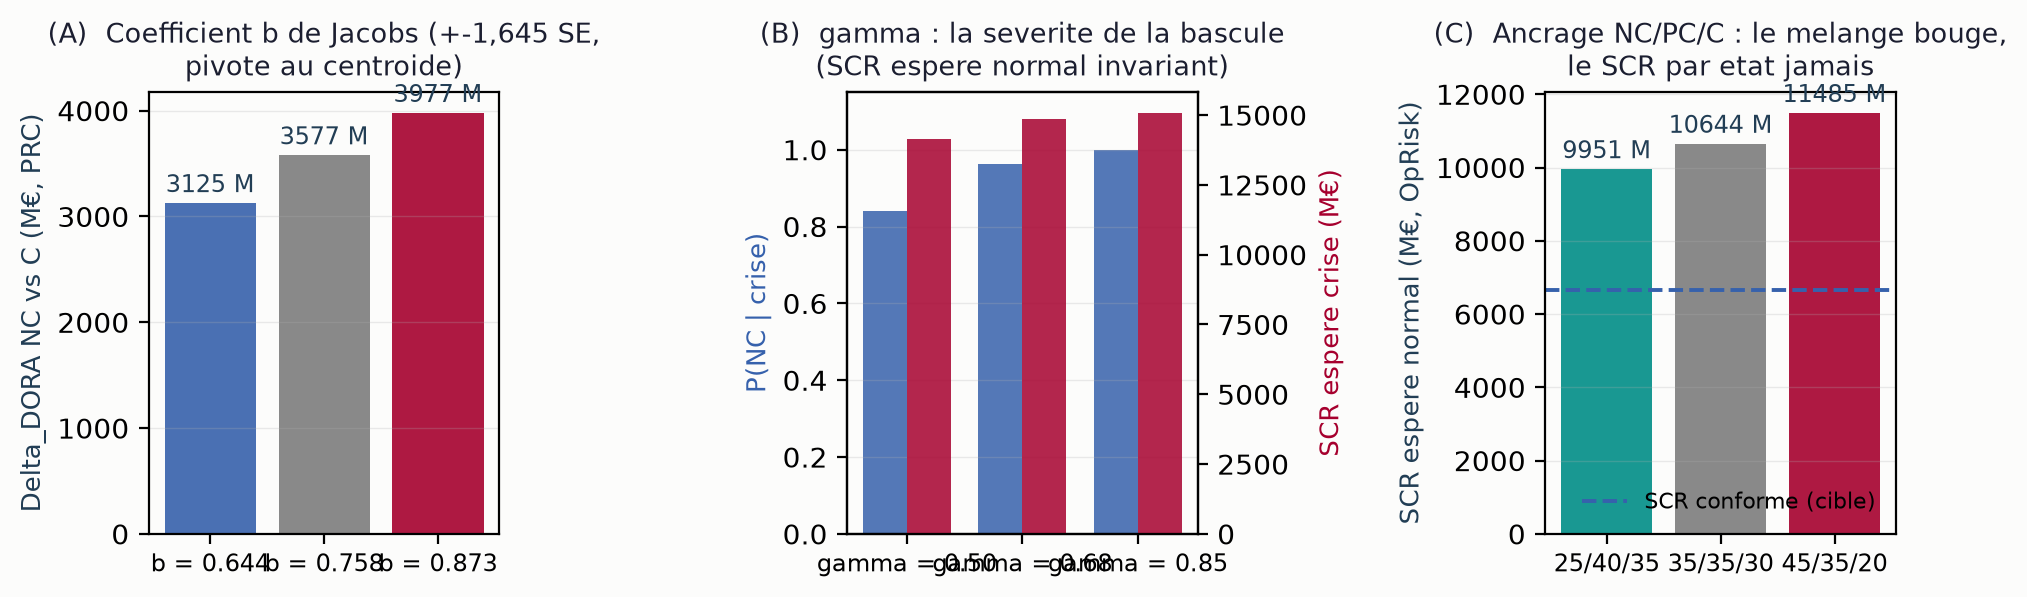
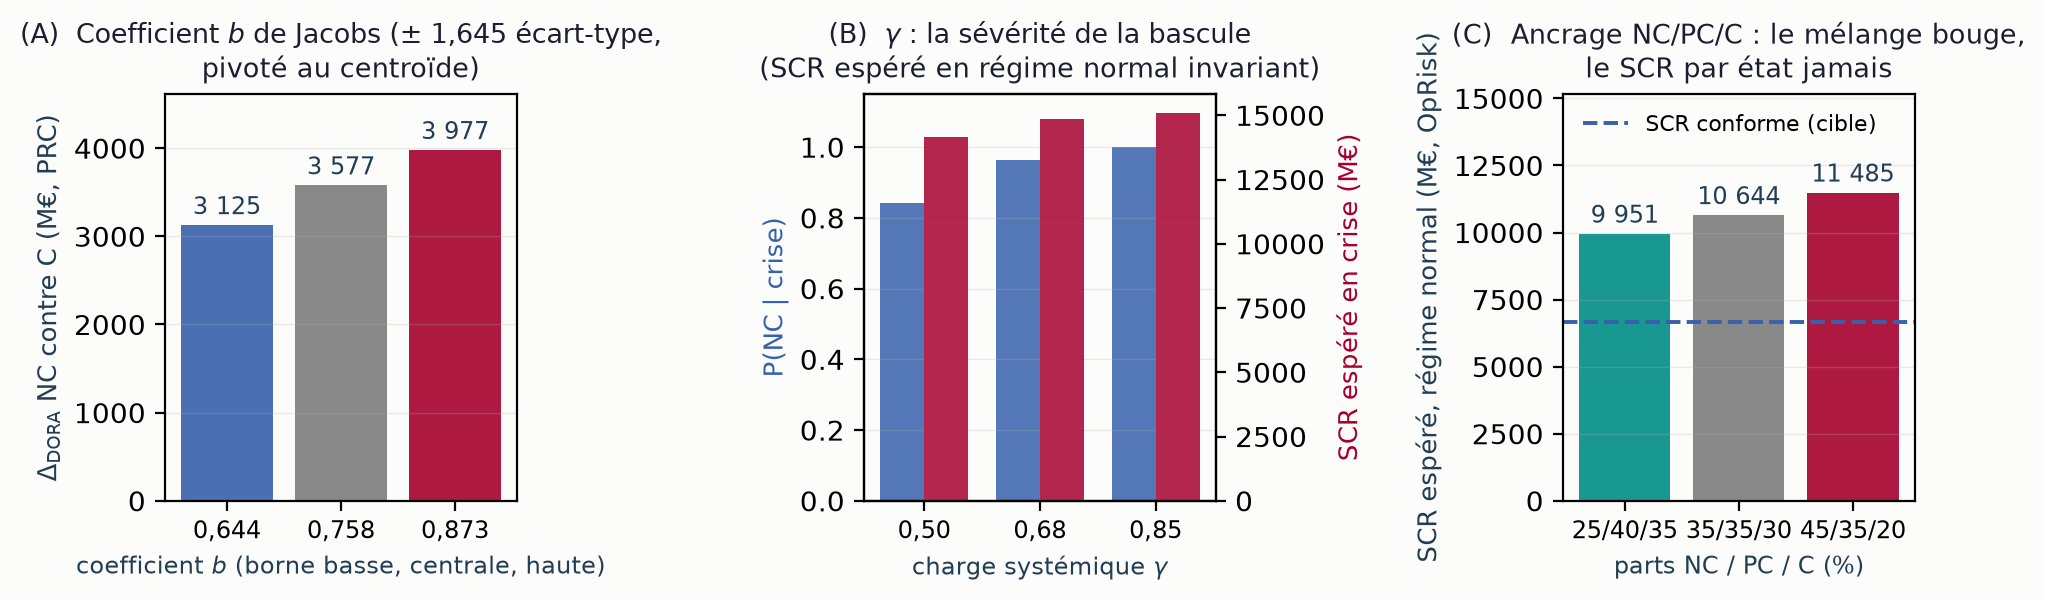
S17 reprise en entier, et une erreur de passation corrigee
LE TITRE GENERAL ETAIT DEJA RETIRE, et le dossier affirmait le contraire. Il l'avait ete dans le
meme commit que ceux de Z6 et S16 (fba5bd7) ; REPRISE.md et le message du commit precedent le
donnaient pourtant pour reste a faire. Un controle du fichier versionne l'aurait montre avant de
l'ecrire. Les deux mentions sont corrigees.

LA FIGURE GARDAIT LES DEFAUTS QU'AVAIT S10 AVANT SA REPRISE, et ils sont traites de la meme facon :
- texte entierement desaccentue (<< severite >>, << espere >>, << centroide >>) alors que la
  legende LaTeX est accentuee ;
- nom de variable du code sur un axe, Delta_DORA, remplace par sa notation ;
- etiquettes d'abscisse illisibles dans deux panneaux, << gamma = 0.50gamma = 0.68 >> : le
  prefixe repete sur chaque barre passe dans le libelle d'axe, les graduations ne portent plus
  que la valeur, a la virgule decimale ;
- deux valeurs coupees par le cadre haut, et une legende qui traversait les barres puis
  percutait une etiquette : la bande libre accueille desormais l'une au-dessus de l'autre.

Sortie du script 22 identique a sorties_verif/22.txt, 5,4 cm imprimes. main_ensae recompile :
189 pages, 6 debordements (ligne de base), 0 vbox, 0 annotation hors page, 0 << ?? >>, et la
page de la figure rendue en image et relue.

diff --git a/exploratory/vasicek_lab/5_etats/22_sensibilites_hypotheses.py b/exploratory/vasicek_lab/5_etats/22_sensibilites_hypotheses.py
@@ -188,12 +188,16 @@ vals = [res_jacobs[k][5]["NC"] - res_jacobs[k][5]["C"] for k in labs]
 cols = [BLUE, GREY, ACCENT]
 axA.bar(range(3), vals, color=cols, alpha=0.9)
 for i, v in enumerate(vals):
-    axA.annotate(f"{v:.0f} M", (i, v), textcoords="offset points", xytext=(0, 4),
-                 ha="center", fontsize=8.5, color=INK2)
+    axA.annotate(f"{v:,.0f}".replace(",", " "), (i, v), textcoords="offset points",
+                 xytext=(0, 4), ha="center", fontsize=8.5, color=INK2)
+axA.set_ylim(0, max(vals) * 1.16)
 axA.set_xticks(range(3))
-axA.set_xticklabels([f"b = {axes_b[k]:.3f}" for k in labs], fontsize=8.5)
-axA.set_ylabel("Delta_DORA NC vs C (M€, PRC)", fontsize=9.3, color=INK2)
-axA.set_title("(A)  Coefficient b de Jacobs (+-1,645 SE,\npivote au centroide)",
+# Le prefixe << b = >> repete sur chaque barre faisait se chevaucher les trois etiquettes : la
+# variable passe dans le libelle d'axe, les graduations ne portent plus que la valeur.
+axA.set_xticklabels([f"{axes_b[k]:.3f}".replace(".", ",") for k in labs], fontsize=8.5)
+axA.set_xlabel("coefficient $b$ (borne basse, centrale, haute)", fontsize=8.8, color=INK2)
+axA.set_ylabel(r"$\Delta_{\mathrm{DORA}}$ NC contre C (M€, PRC)", fontsize=9.3, color=INK2)
+axA.set_title("(A)  Coefficient $b$ de Jacobs (± 1,645 écart-type,\npivoté au centroïde)",
               fontsize=9.6, color=INK, pad=6)
 axA.grid(alpha=0.25, lw=0.5, axis="y")
 
@@ -205,13 +209,14 @@ axB2 = axB.twinx()
 axB.bar([i - 0.19 for i in range(3)], pnc, 0.38, color=BLUE, alpha=0.85,
         label="P(NC | crise)")
 axB2.bar([i + 0.19 for i in range(3)], esps, 0.38, color=ACCENT, alpha=0.85,
-         label="SCR espere en crise")
+         label="SCR espéré en crise")
 axB.set_xticks(range(3))
-axB.set_xticklabels([f"gamma = {g:.2f}" for g in gammas], fontsize=8.5)
+axB.set_xticklabels([f"{g:.2f}".replace(".", ",") for g in gammas], fontsize=8.5)
+axB.set_xlabel(r"charge systémique $\gamma$", fontsize=8.8, color=INK2)
 axB.set_ylabel("P(NC | crise)", fontsize=9.3, color=BLUE)
-axB2.set_ylabel("SCR espere crise (M€)", fontsize=9.3, color=ACCENT)
+axB2.set_ylabel("SCR espéré en crise (M€)", fontsize=9.3, color=ACCENT)
 axB.set_ylim(0, 1.15)
-axB.set_title("(B)  gamma : la severite de la bascule\n(SCR espere normal invariant)",
+axB.set_title("(B)  $\\gamma$ : la sévérité de la bascule\n(SCR espéré en régime normal invariant)",
               fontsize=9.6, color=INK, pad=6)
 axB.grid(alpha=0.25, lw=0.5, axis="y")
 
@@ -221,14 +226,16 @@ vn = [res_anc[k][0] for k in labs_c]
 axC.bar(range(3), vn, color=[GREEN, GREY, ACCENT], alpha=0.9)
 axC.axhline(scr_o["C"], color=BLUE, lw=1.4, ls="--", label="SCR conforme (cible)")
 for i, v in enumerate(vn):
-    axC.annotate(f"{v:.0f} M", (i, v), textcoords="offset points", xytext=(0, 4),
-                 ha="center", fontsize=8.5, color=INK2)
+    axC.annotate(f"{v:,.0f}".replace(",", " "), (i, v), textcoords="offset points",
+                 xytext=(0, 4), ha="center", fontsize=8.5, color=INK2)
+axC.set_ylim(0, max(vn) * 1.32)
 axC.set_xticks(range(3))
 axC.set_xticklabels(["25/40/35", "35/35/30", "45/35/20"], fontsize=8.5)
-axC.set_ylabel("SCR espere normal (M€, OpRisk)", fontsize=9.3, color=INK2)
-axC.set_title("(C)  Ancrage NC/PC/C : le melange bouge,\nle SCR par etat jamais",
+axC.set_xlabel("parts NC / PC / C (%)", fontsize=8.8, color=INK2)
+axC.set_ylabel("SCR espéré, régime normal (M€, OpRisk)", fontsize=9.3, color=INK2)
+axC.set_title("(C)  Ancrage NC/PC/C : le mélange bouge,\nle SCR par état jamais",
               fontsize=9.6, color=INK, pad=6)
-axC.legend(fontsize=8.0, frameon=False, loc="lower right")
+axC.legend(fontsize=8.0, frameon=False, loc="upper left")
 axC.grid(alpha=0.25, lw=0.5, axis="y")
 
 fig.tight_layout(w_pad=1.8)

diff --git a/REPRISE.md b/REPRISE.md
@@ -547,9 +547,7 @@ propagation sur des sources prudentielles, et l'élicitation.
 2. **les six figures encore sous 6,5 pt effectifs**, listées au journal du 15 septembre. Elles
    sont toutes rejouables ici depuis que `data/raw` est sur le poste ; la réserve sur
    `M_faisabilite` n'a plus d'objet, la chronologie PRC y est en `.csv` et la figure a de toute
-   façon été supprimée le 15. **Et il reste un point à moitié** : le titre général de `S17` n'a
-   pas été retiré alors que ceux de Z6 et S16 l'ont été dans le même lot, l'arrêt ayant été
-   demandé entre les deux ;
+   façon été supprimée le 15 ;
 3. ~~**purger le `\textbf{}` à l'intérieur des phrases**~~ : **FAIT le 16 septembre**, avec
    la révision stylistique. Quarante-quatre passages en italique, trente-six dégraissés,
    plus huit `\mathbf` sur des nombres ; le gras ne sert plus qu'aux têtes et aux tableaux ;
@@ -804,8 +802,13 @@ l'Institut met en ligne. Et deux figures portaient encore un renvoi de script da
 son propre titre pour ce motif, la légende était restée en arrière ; elle renvoie désormais à la
 légende de la figure, qui ne peut pas se périmer avec la palette.
 
-**Reste S17**, dont le titre général n'a pas été retiré : Kélian a demandé d'arrêter les figures
-pour passer à l'analyse de l'ancien mémoire. C'est le seul point resté à moitié.
+**S17 a été annoncée à tort comme restée à moitié.** Son titre général était en fait retiré
+dans le même commit que ceux de Z6 et S16 (`fba5bd7`), ce qu'un contrôle du fichier versionné
+aurait montré avant de l'écrire. La figure gardait en revanche les défauts qu'avait S10 avant sa
+reprise, et ils sont corrigés le même jour : texte entièrement désaccentué alors que la légende
+LaTeX est accentuée, nom de variable `Delta_DORA` sur un axe, étiquettes d'abscisse illisibles
+dans deux panneaux (« gamma = 0.50gamma = 0.68 »), valeurs coupées par le cadre, et une légende
+qui traversait les barres. Sortie du script inchangée, 5,4 cm imprimés.
 
 ### `96` : le moteur d'agrégation cesse d'être le seul étage non contrôlé
 
